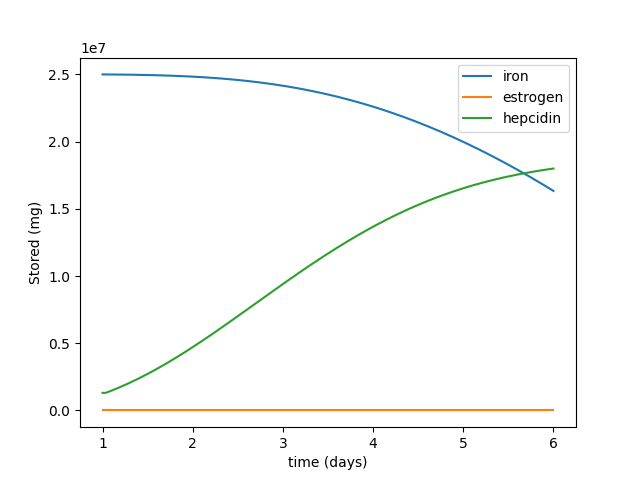
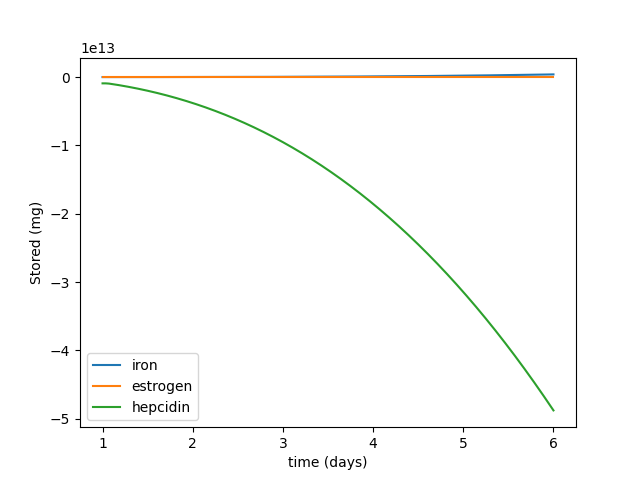
workingish

diff --git a/equations.py b/equations.py
@@ -15,8 +15,8 @@ prog = np.zeros(cycle.size)
 #iron acc:
 #ironRep = np.zeros(time.size)    initial: acc = in-out-con
 ironStor = np.zeros(time.size)
-#ironStor[0] = (c.m2iron + c.m6hemo) - (c.m4hemo + c.m5hemo) - c.conIron
-ironStor[0] = 25000000
+#ironStor[0] = (c.m2iron + c.base_m6hemo) - (c.m4hemo + c.m5hemo) - c.conIron
+ironStor[0] = 250
 #ironROB = np.zeros(time.size)
 
 #hemo acc:
@@ -61,21 +61,21 @@ for i in range(cycle.size) :
 #small intestine: no acc of anything, nothing to track.
 
 #initial value for hepcidin: 
-hep[0] = c.hepIron*blossrate[0] + 1220000 + c.hepEst*est[0] + 0.678
+hep[0] = c.hepIron*hemo6[0] + 1220000 + c.hepEst*est[0] + 0.678
 
 for i in range(time.size-1) :
     #STORAGE:
-    ironStor[i+1] = ironStor[i] - c.ironHep*hep[i]*time[i]  + c.genIron
+    ironStor[i+1] = c.ironHep*hep[i]*time[i]  - 3275.1
 
     #hemo 
-    hemo6[i+1] = hemo6[i]-blossrate[i]*time[i]
-    hemo9[i+1] = hemo9[i]-blossrate[i]*time[i]
+
+    hemo9[i+1] = (c.m4hemo + c.m8hemo -blossrate[i])*time[i]
+    hemo6[i+1] = (c.m3hemo  + hemo9[i] + c.m5hemo - c.m8hemo)*time[i]
 
     #hep is downregulated by estrogen and downregulated by low iron.
-    hep[i+1] = hep[i] + c.hepEst*est[i]*time[i]
+    hep[i+1] = c.hepEst*est[i]*time[i] + 0.678
     #if iron falls below normal/initial storage level, hep is decreased.
-    if (ironStor[i]<ironStor[0]) : 
-        hep[i+1] = hep[i] + c.hepIron*(blossrate[i])*time[i] # or ironStor[0] - ironStor[i]
+    hep[i+1] = c.hepIron*(hemo6[i])*time[i] +1220000 # or ironStor[0] - ironStor[i]
 
 
 print("times: ", time[::28])

diff --git a/initial_numbers.py b/initial_numbers.py
@@ -42,10 +42,10 @@ genIron = c #changes to accommmodate the fluctuations in accumulation in storage
 accEst = c #accumulation of estrogen in the reproductive system, varies per day
 
 #relationships between hepcidin/iron/estrogen (normal) - all of these values should be calculated from the lists in the for loops
-hepIron = 7298#*m7hemo + 1220000 #mg/day, used to calculate the amount of hepcidin based on amount of hemoglobin leaving through menstruation, changes daily
+hepIron = -7298#*m7hemo + 1220000 #mg/day, used to calculate the amount of hepcidin based on amount of hemoglobin leaving through menstruation, changes daily
 hepEst = -0.891#*accEst + 0.678 #mg/day, used to calculate the amount of hepcidin based on the amount of estrogen
 hepTotal = hepIron + hepEst #total hepcidin per day
-ironHep = 0.00137#*hepTotal - 3275.4 #total iron in storage
+ironHep = -0.00137#*hepTotal - 3275.4 #total iron in storage
 
 
 #normal values that are most relevant to graphing

diff --git a/graphing.py b/graphing.py
@@ -14,7 +14,7 @@ plt.xlabel("time (days)")
 plt.ylabel("Stored (mg)")
 plt.legend()
 plt.savefig("storage")
-#plt.show()
+plt.show()
 plt.close()
 
 #estrogen vs hepcidin linear
